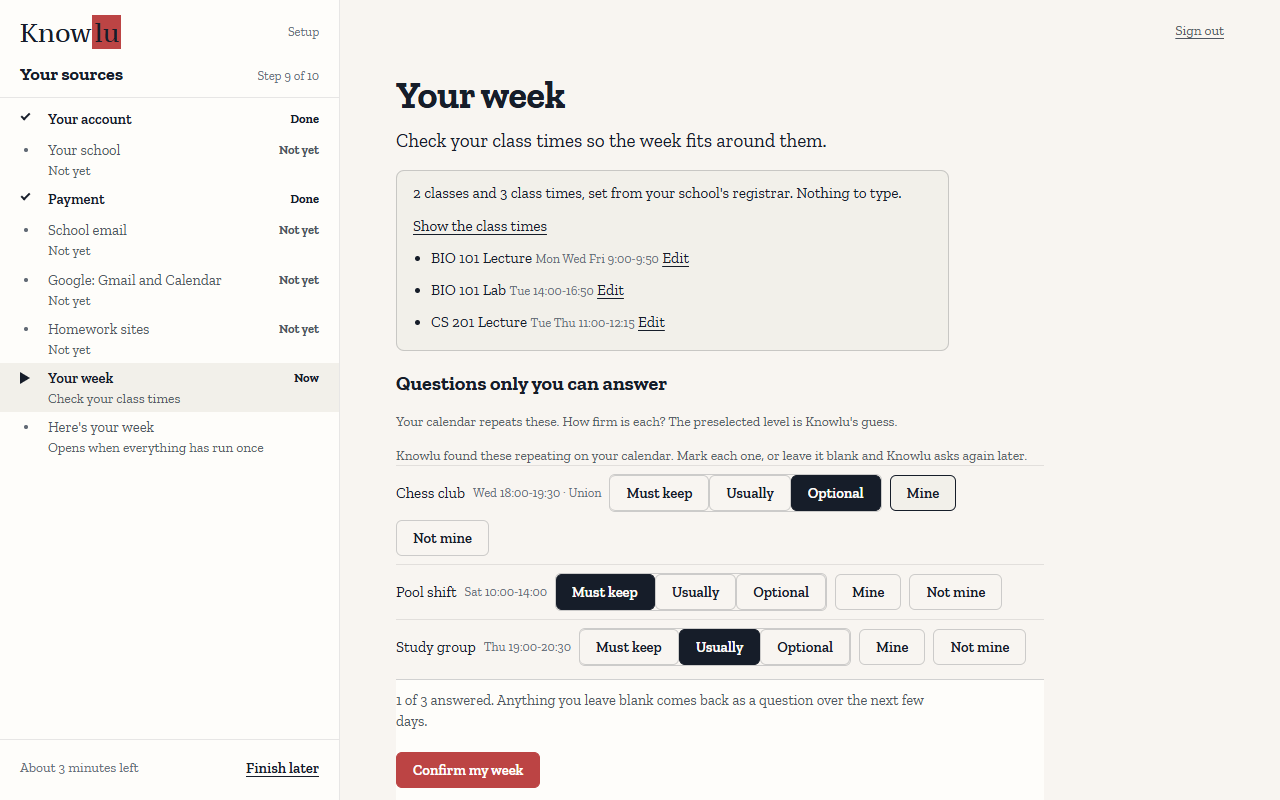
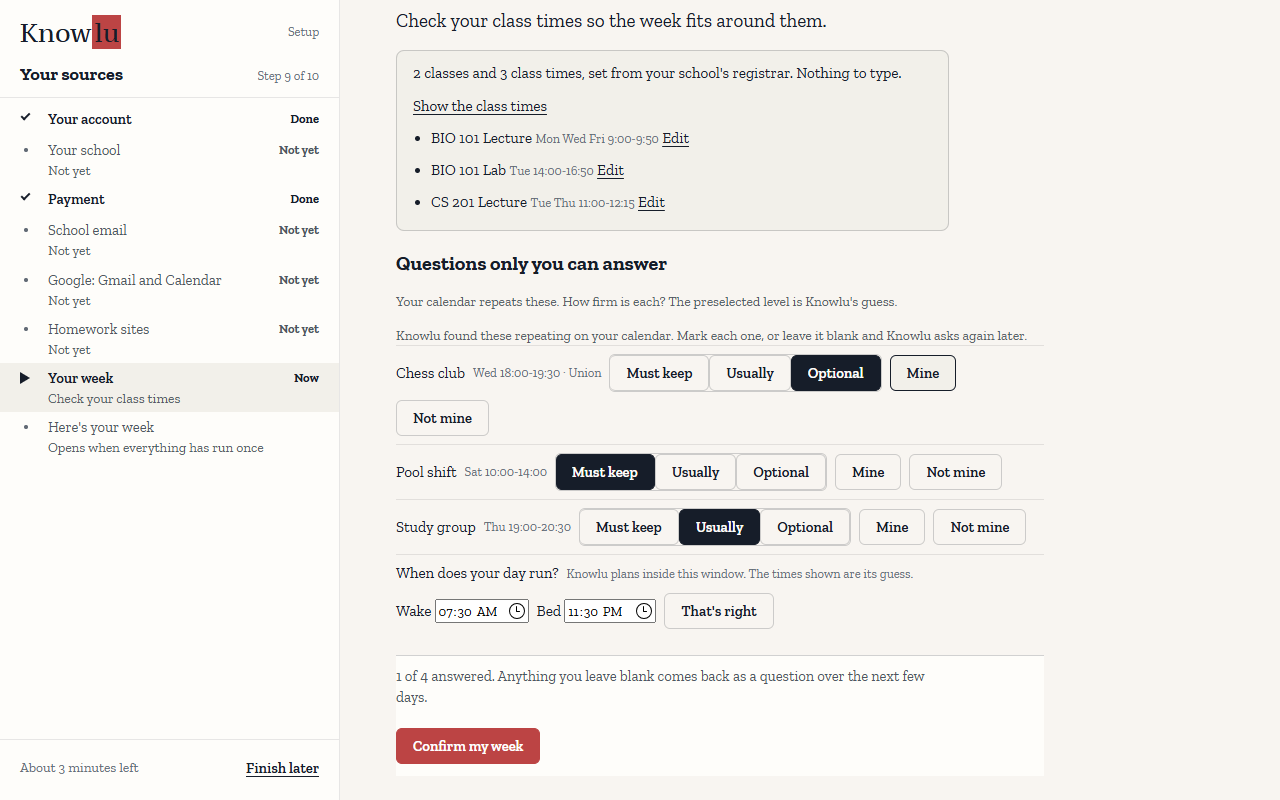
feat(o3 F11p4): step 10's day-window question through commitments_confirm's window key; shots
Claude-Session: https://claude.ai/code/session_01EtveU7wxFVygY3Msga61qk

diff --git a/app/static/onboarding.js b/app/static/onboarding.js
@@ -576,7 +576,7 @@
   // Class times show as set (read from `your_week`); the calendar's meetings are asked for only once
   // the status says `proposals_ready`. Confirming is today's `commitments_confirm`, which can refuse
   // by name while a sync runs: the sentence shows, with a Try again.
-  var w10 = { asked: false, busy: false, reg: "" };
+  var w10 = { asked: false, busy: false, reg: "", proposal: null, win: { answered: false, start: "", end: "" } };
   var KINDS10 = [["class", "Class"], ["lab", "Lab"], ["work", "Work"], ["club", "Club"], ["meeting", "Meeting"], ["office-hours", "Office hours"]];
   var LEVELS10 = [["hard", "Must keep"], ["soft", "Usually"], ["optional", "Optional"]];
   function say10(text) {
@@ -648,12 +648,26 @@
       return '<button class="b su-btn" type="button" data-level="' + l[0] + '" aria-pressed="' + (l[0] === on) + '">' + l[1] + '</button>';
     }).join("") + '</span>';
   }
-  function confirmArg10(rows) {
+  function windowFields10(p) {
+    var m = p && p.meets && p.meets[0];
+    return { start: (m && m.start) || "", end: (m && m.end) || "" };
+  }
+  // The `window` string for commitments_confirm, or null: unanswered or a blank time sends no key.
+  function windowArg10(p, win) {
+    if (!win || !win.answered || !win.start || !win.end) { return null; }
+    var f = windowFields10(p);
+    if (p && p.meets && f.start === win.start && f.end === win.end) { return JSON.stringify(p.meets); }
+    var days = (p && p.meets && p.meets[0] && p.meets[0].days) || ["mon", "tue", "wed", "thu", "fri", "sat", "sun"];
+    return JSON.stringify([{ days: days, start: win.start, end: win.end }]);
+  }
+  function confirmArg10(rows, proposal, win) {
     var mine = [], notMine = [];
     rows.forEach(function (r) {
       if (r.answer === "mine") { mine.push({ source_uid: r.key, level: r.level }); } else if (r.answer === "not") { notMine.push(r.key); }
     });
-    return { mine: mine, not_mine: notMine };
+    var out = { mine: mine, not_mine: notMine }, w = windowArg10(proposal, win);
+    if (w !== null) { out.window = w; }
+    return out;
   }
   // `win` is the day-window question (F11p4); null means it is not on screen, so it is not counted.
   function answeredCount10(rows, win) {
@@ -662,15 +676,25 @@
   }
   function confirmBarLine10(n, m) { return n + " of " + m + " answered. Anything you leave blank comes back as a question over the next few days."; }
   OB.summaryLine10 = summaryLine10; OB.splitProposals10 = splitProposals10; OB.firmnessHtml10 = firmnessHtml10;
-  OB.confirmArg10 = confirmArg10; OB.answeredCount10 = answeredCount10; OB.confirmBarLine10 = confirmBarLine10;
+  OB.confirmArg10 = confirmArg10; OB.windowFields10 = windowFields10; OB.windowArg10 = windowArg10; OB.answeredCount10 = answeredCount10; OB.confirmBarLine10 = confirmBarLine10;
   function rows10() {
     return Array.prototype.map.call(document.querySelectorAll("#ob-10-prop .ob-prop"), function (r) {
       return { key: r.getAttribute("data-key"), answer: r.getAttribute("data-answer"), level: r.getAttribute("data-level") };
     });
   }
   function paintBar10() {
-    var el = EL("ob-10-count"), c = answeredCount10(rows10(), null);
+    var el = EL("ob-10-count"), c = answeredCount10(rows10(), w10.win);
     if (el) { el.textContent = confirmBarLine10(c.n, c.m); }
+  }
+  // The guess goes into the two time inputs until the student has touched them.
+  function fillWindow10() {
+    var a = EL("ob-10-wstart"), b = EL("ob-10-wend"), f = windowFields10(w10.proposal);
+    if (!a || !b || w10.win.answered) { return; }
+    a.value = w10.win.start = f.start; b.value = w10.win.end = f.end;
+  }
+  function readWindow10() {
+    var a = EL("ob-10-wstart"), b = EL("ob-10-wend");
+    if (a && b) { w10.win.start = a.value; w10.win.end = b.value; }
   }
   function askProposals(s) {
     if (!(s && s.proposals_ready) || w10.asked) { return; }
@@ -678,7 +702,8 @@
     invoke("commitment_proposals", {}).then(function (r) {
       var host = EL("ob-10-prop");
       if (!host) { return; }
-      var ps = splitProposals10(r).events;
+      var sp = splitProposals10(r), ps = sp.events;
+      w10.proposal = sp.window; fillWindow10();
       host.innerHTML = ps.length ? '<p class="su-small">Knowlu found these repeating on your calendar. Mark each one, or leave it blank and Knowlu asks again later.</p>' + ps.map(propHtml).join("")
         : '<p class="ob-state">' + esc((r && r.error) || "Knowlu found nothing repeating on your calendar.") + '</p>';
       paintBar10();
@@ -691,7 +716,7 @@
   function confirm10() {
     if (w10.busy) { return; }
     w10.busy = true; say10(""); setConfirm10(); OB.clearError();
-    invoke("commitments_confirm", { view: "today", confirm: confirmArg10(rows10()) }).then(function (env) {
+    invoke("commitments_confirm", { view: "today", confirm: confirmArg10(rows10(), w10.proposal, w10.win) }).then(function (env) {
       w10.busy = false; setConfirm10();
       if (!env || env.ok !== true) { say10("Knowlu couldn't save your week: " + ((env && env.error) || "something went wrong") + "."); return; }
       w10.busy = true; setConfirm10();
@@ -712,6 +737,11 @@
     if (!b || !EL("ob-step-10")) { return; }
     if (b.getAttribute("data-act10") === "times") { var set = EL("ob-10-set"); set.hidden = !set.hidden; b.setAttribute("aria-expanded", String(!set.hidden)); return; }
     var act = b.getAttribute("data-act10"), row = b.closest(".ob-prop");
+    if (act === "win") {
+      readWindow10(); w10.win.answered = !w10.win.answered;
+      b.setAttribute("aria-pressed", String(w10.win.answered)); paintBar10();
+      return;
+    }
     if (act === "confirm") { confirm10(); return; }
     if (act === "edit" || act === "save") {
       var set = b.closest(".ob-set");
@@ -726,14 +756,17 @@
     paintBar10();
   }
   function render10(status) {
-    w10.asked = false; w10.busy = false;
+    w10.asked = false; w10.busy = false; w10.proposal = null; w10.win = { answered: false, start: "", end: "" };
     w10.reg = (status && status.jobs && status.jobs["registrar.confirm"] && status.jobs["registrar.confirm"].state) || "";
-    Promise.resolve().then(function () { loadSet10(); askProposals(status); });
+    Promise.resolve().then(function () { loadSet10(); askProposals(status); paintBar10(); });
     var sum = summaryLine10(status);
     return { ask: '<div id="ob-step-10">' + (sum ? '<div class="ob-card"><p>' + esc(sum) + '</p>' : '<div class="ob-card">') +
       '<button class="su-link" type="button" data-act10="times" aria-expanded="false">Show the class times</button><div id="ob-10-set" hidden><p class="ob-state">Reading your class times…</p></div></div>' +
       '<h2 class="ob-h2">Questions only you can answer</h2><p class="su-small">Your calendar repeats these. How firm is each? The preselected level is Knowlu&#39;s guess.</p>' +
       '<div id="ob-10-prop"><p class="ob-state" id="ob-10-wait">Knowlu is reading your calendars…</p></div>' +
+      '<div class="ob-prop ob-win" id="ob-10-win"><span class="a">When does your day run?</span> <span class="su-dim">Knowlu plans inside this window. The times shown are its guess.</span> ' +
+      '<label>Wake <input type="time" id="ob-10-wstart" aria-label="Day starts"></label> <label>Bed <input type="time" id="ob-10-wend" aria-label="Day ends"></label> ' +
+      '<button class="b su-btn" type="button" data-act10="win" aria-pressed="false">That&#39;s right</button></div>' +
       '<div class="ob-10-bar" id="ob-10-bar"><p class="ob-state" id="ob-10-count"></p>' +
       '<p class="ob-state ob-failed" id="ob-10-line" role="alert" hidden></p>' +
       '<div class="su-actions"><button class="b pri y su-btn" type="button" id="ob-10-confirm" data-act10="confirm">Confirm my week</button>' +
@@ -751,7 +784,17 @@
     if (reg && reg.state === "done" && w10.reg !== "done") { w10.reg = "done"; loadSet10(); }
   }
   OB.registerPanel(10, { render: render10, onStatus: onStatus10 });
-  if (EL("onboarding")) { EL("onboarding").addEventListener("click", onClick10); }
+  if (EL("onboarding")) {
+    EL("onboarding").addEventListener("click", onClick10);
+    // Typing a time is an answer: the student has set the window themselves.
+    EL("onboarding").addEventListener("change", function (e) {
+      if (!e.target.closest || !e.target.closest("#ob-10-win")) { return; }
+      readWindow10(); w10.win.answered = true;
+      var btn = document.querySelector("#ob-10-win [data-act10=win]");
+      if (btn) { btn.setAttribute("aria-pressed", "true"); }
+      paintBar10();
+    });
+  }
   // ==== F11c, step 10 (ends) =====================================================================
 
   // The one reader of `account_status`: on mount and at the step 2 and step 4 moves, never from the poll.

diff --git a/docs/reports/shots/F11p3/index.md b/docs/reports/shots/F11p3/index.md
@@ -8,7 +8,8 @@ proposals; no real student data). Each pair is the built page beside the prototy
 | dark | f10-your-week-dark-built.png | f10-your-week-dark-prototype.png |
 | light | f10-your-week-light-built.png | f10-your-week-light-prototype.png |
 
-The built shots show the class times opened and one event marked Mine (the bar reads "1 of 3
-answered"). The day-window question ("When does your day run?") is not in these shots: it comes in
-F11p4, and until then the bar counts the event rows only. The prototype's late-rule question and
+The built shots show the class times opened and one event marked Mine, scrolled to the day-window
+question ("When does your day run?", the time inputs preselected from the window proposal's guess,
+07:30 and 23:30). The bar reads "1 of 4 answered": three events and the window, which counts once the
+student presses That's right or sets a time (F11p4). The prototype's late-rule question and
 syllabus groups are out of scope (no late-rule question until O5).
